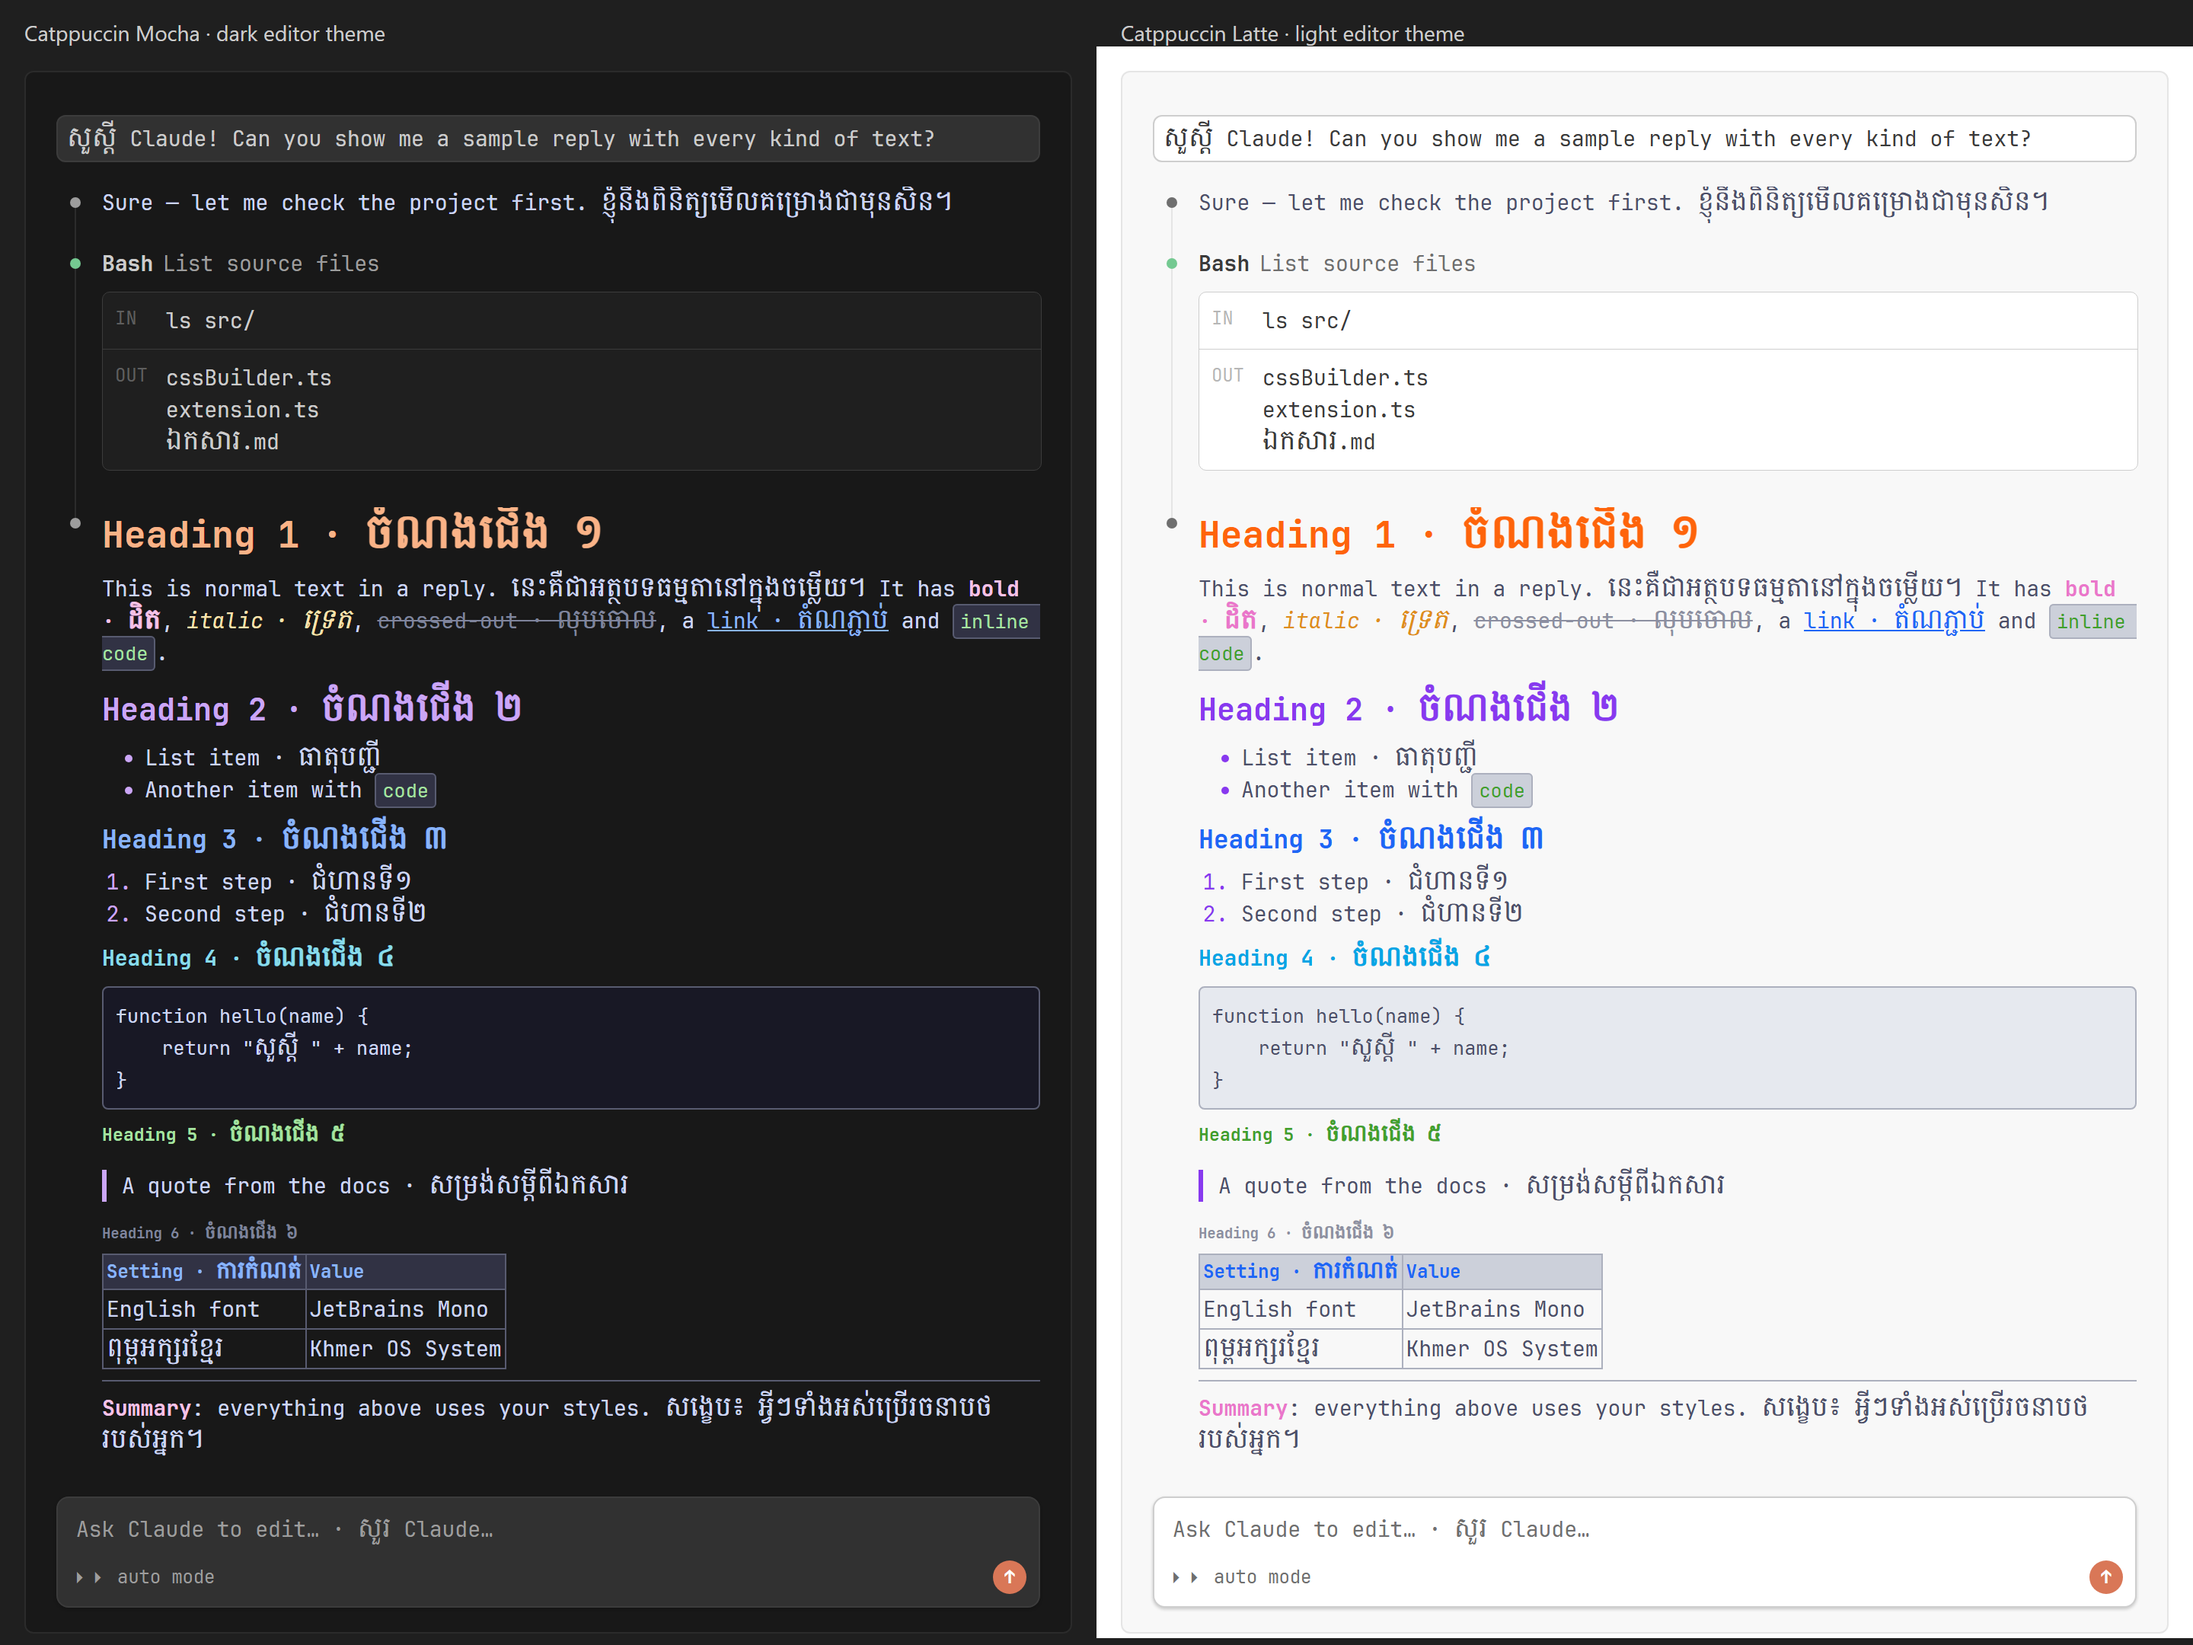
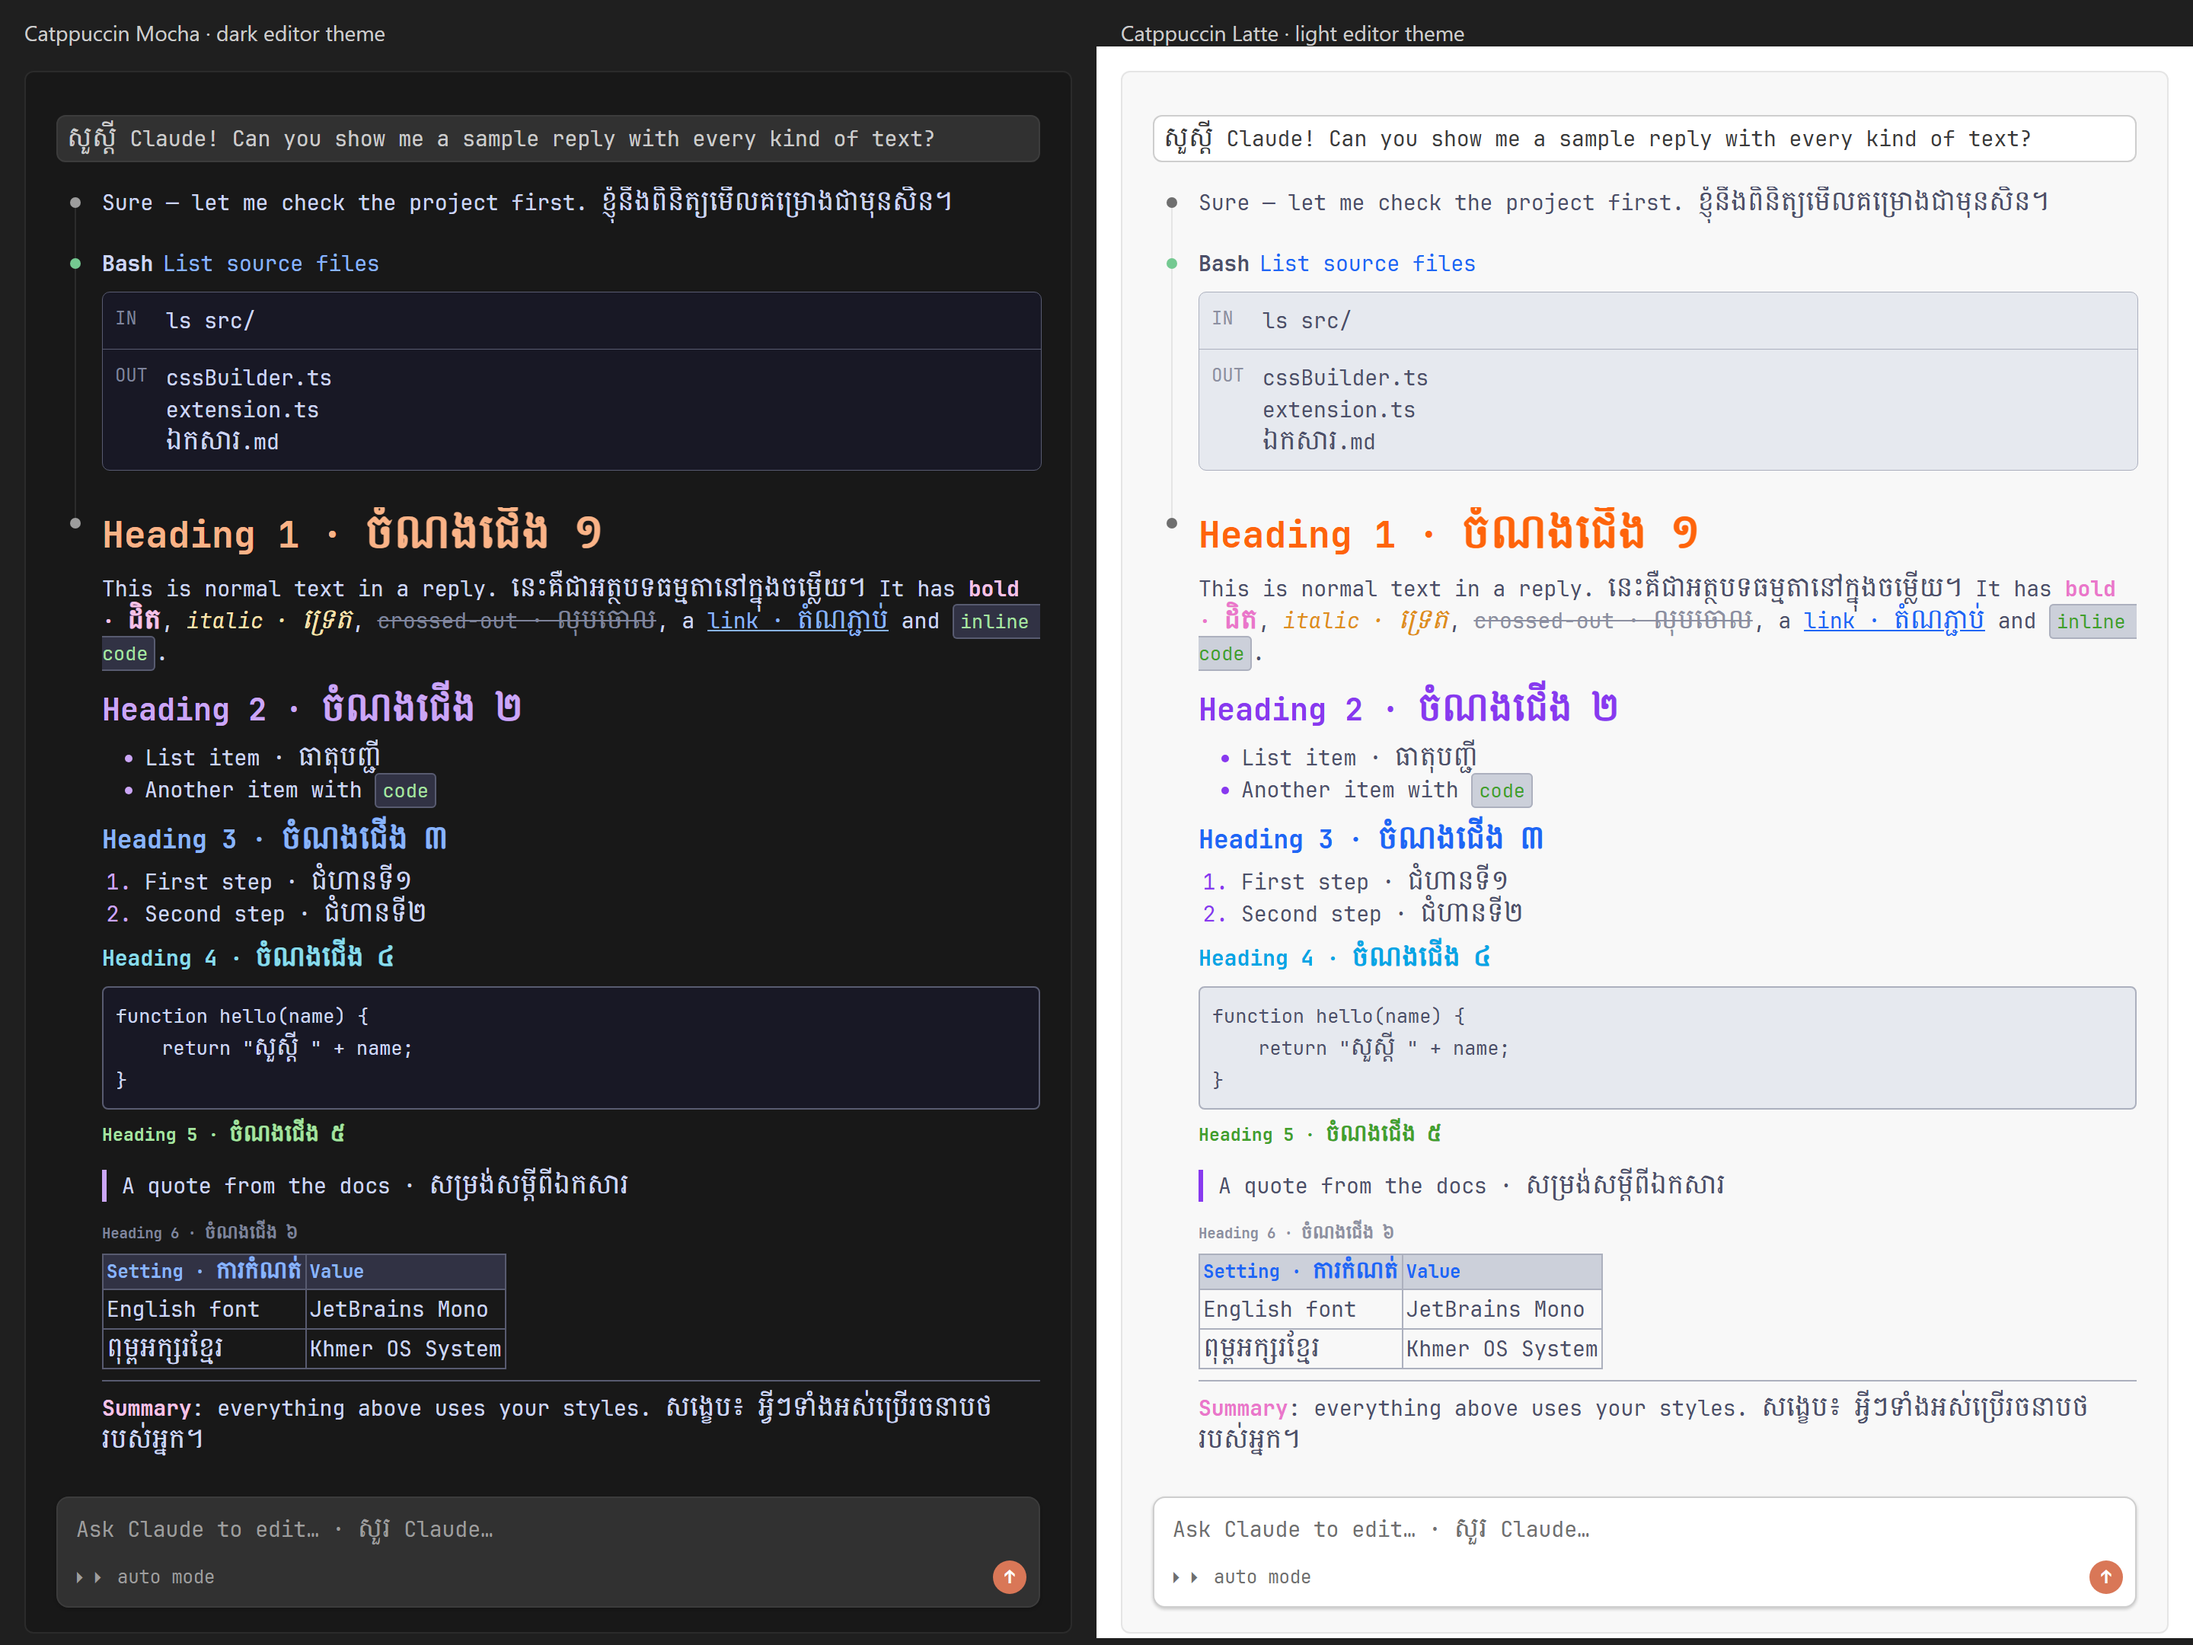
Document tool box rows and labels, widen settings table, version 0.5.0

Changed region(s): [[0.5312, 0.1551, 1.0, 0.3102], [0.0625, 0.2171, 0.125, 0.2792], [0.0625, 0.1551, 0.125, 0.1861]]

diff --git a/media/panel.css b/media/panel.css
@@ -3,7 +3,7 @@ body {
     color: var(--vscode-foreground);
     background: var(--vscode-editor-background);
     padding: 16px 20px 40px;
-    max-width: 900px;
+    max-width: 1100px;
     margin: 0 auto;
 }
 h1 { font-size: 22px; margin: 0 0 16px; }
@@ -26,12 +26,12 @@ input:focus, select:focus { outline: 1px solid var(--vscode-focusBorder); }
 input[type="number"] { width: 64px; }
 #styles { border-collapse: collapse; width: 100%; min-width: 880px; }
 .table-scroll { overflow-x: auto; }
-td.item { min-width: 150px; max-width: 230px; }
+td.item { width: 190px; min-width: 160px; }
 td.item .example { color: var(--vscode-descriptionForeground); font-size: 12px; }
 td.off { opacity: 0.35; }
 th { text-align: left; font-size: 12px; color: var(--vscode-descriptionForeground); padding: 4px; }
 td { padding: 3px 4px; }
-td input[list] { width: 100%; box-sizing: border-box; }
+td input[list] { width: 100%; min-width: 110px; box-sizing: border-box; }
 .color-cell { display: flex; gap: 4px; align-items: center; }
 .color-cell input[type="color"] { width: 28px; height: 24px; padding: 0; border: none; background: none; }
 .color-cell input[type="text"] { width: 80px; }

diff --git a/tools/screenshot.js b/tools/screenshot.js
@@ -92,7 +92,7 @@ for (const f of ['panel.css', 'panel.js']) {
     fs.copyFileSync(path.join(root, 'media', f), path.join(work, f));
 }
 
-shoot(writePage('settings', configFor('dracula'), 'dark', ''), 'settings.png', 940, 1050);
+shoot(writePage('settings', configFor('dracula'), 'dark', ''), 'settings.png', 1140, 1320);
 shoot(writePage('preview', configFor('dracula'), 'dark', PREVIEW_ONLY), 'preview.png', 760, 1015);
 
 writePage('mocha', configFor('catppuccin-mocha'), 'dark', PREVIEW_ONLY);

diff --git a/README.md b/README.md
@@ -12,8 +12,8 @@ Khmer text often looks too small next to English at the same size. This extensio
 
 - **Separate English and Khmer fonts.** Pick any font installed on your computer for each language.
 - **Separate English and Khmer sizes.** Khmer can be larger or smaller than English. English text is never affected.
-- **Style every item in a reply.** Set the font, size, colour, background, border, weight, italic and underline for:
-  normal text, headings 1–6, bold, italic, crossed-out, links, inline code, code blocks, list items, bullets and numbers, quotes, table headers, table cells and divider lines.
+- **Style every item in a reply and the tool box.** Set the font, size, colour, background, border, weight, italic and underline for:
+  normal text, headings 1–6, bold, italic, crossed-out, links, inline code, code blocks, list items, bullets and numbers, quotes, table headers, table cells and divider lines, plus the tool box: tool name (e.g. **Bash**), tool description, the box itself, the IN / OUT labels and their content.
 - **Theme presets.** One click fills every colour from Dracula, Catppuccin (Latte, Frappé, Macchiato, Mocha), Nord, Gruvbox, One Dark or Tokyo Night.
 - **Live preview.** A mock Claude Code chat updates as you type, so you can see the result before you apply it.
 - **Terminal support.** Your fonts also apply to the integrated terminal, including the separate Khmer size.
@@ -24,7 +24,7 @@ Khmer text often looks too small next to English at the same size. This extensio
 
 ![The Claude Style Settings page with font pickers and the text style table](https://github.com/smith89k/claude-code-style/raw/HEAD/images/settings.png)
 
-Leave any box empty to keep Claude Code's normal look for that item. Boxes that don't apply to an item are greyed out.
+Rows are grouped into **Claude's reply** and **Tool box**. The text in brackets, such as *Tool name (Bash)*, is exactly what that row styles in the preview, and hovering a row outlines it there. Leave any box empty to keep Claude Code's normal look for that item. Boxes that don't apply to an item are greyed out.
 
 ## Presets
 
@@ -66,7 +66,7 @@ You normally change these from the settings page, but they can also be edited in
 | `claudeCodeStyle.englishSize` | `14` | Size in px for English text (6–100). |
 | `claudeCodeStyle.khmerFont` | `Khmer OS System` | Font for Khmer text. |
 | `claudeCodeStyle.khmerSize` | `14` | Size in px for Khmer text (6–100). |
-| `claudeCodeStyle.elements` | `{}` | Styles per chat item. Each item takes `font`, `size`, `color`, `background`, `border`, `weight`, `italic`, `underline`. |
+| `claudeCodeStyle.elements` | `{}` | Styles per chat item: `text`, `h1`–`h6`, `bold`, `italic`, `strike`, `link`, `code`, `codeBlock`, `list`, `bullet`, `quote`, `tableHeader`, `tableCell`, `divider`, `toolName`, `toolDescription`, `toolBox`, `toolLabel`, `toolContent`. Each takes `font`, `size`, `color`, `background`, `border`, `weight`, `italic`, `underline`. |
 
 Example:
 

diff --git a/CHANGELOG.md b/CHANGELOG.md
@@ -1,5 +1,12 @@
 # Changelog
 
+## 0.5.0
+
+- Style the **tool box**: tool name (e.g. Bash), tool description, box background and border, IN / OUT labels and their content. Presets colour it too.
+- Every row now shows the exact preview text it styles in brackets, e.g. *Tool name (Bash)*, and rows are grouped into *Claude's reply* and *Tool box*.
+- Hovering or editing a row outlines that part of the preview.
+- Renamed *Italic text* to *Italic* and *Code snippet* to *Inline code* to match the preview. Saved settings are unchanged.
+
 ## 0.4.0
 
 - New **Preset** menu: fill every colour from Dracula, Catppuccin Latte / Frappé / Macchiato / Mocha, Nord, Gruvbox Dark / Light, One Dark or Tokyo Night / Storm / Day.
